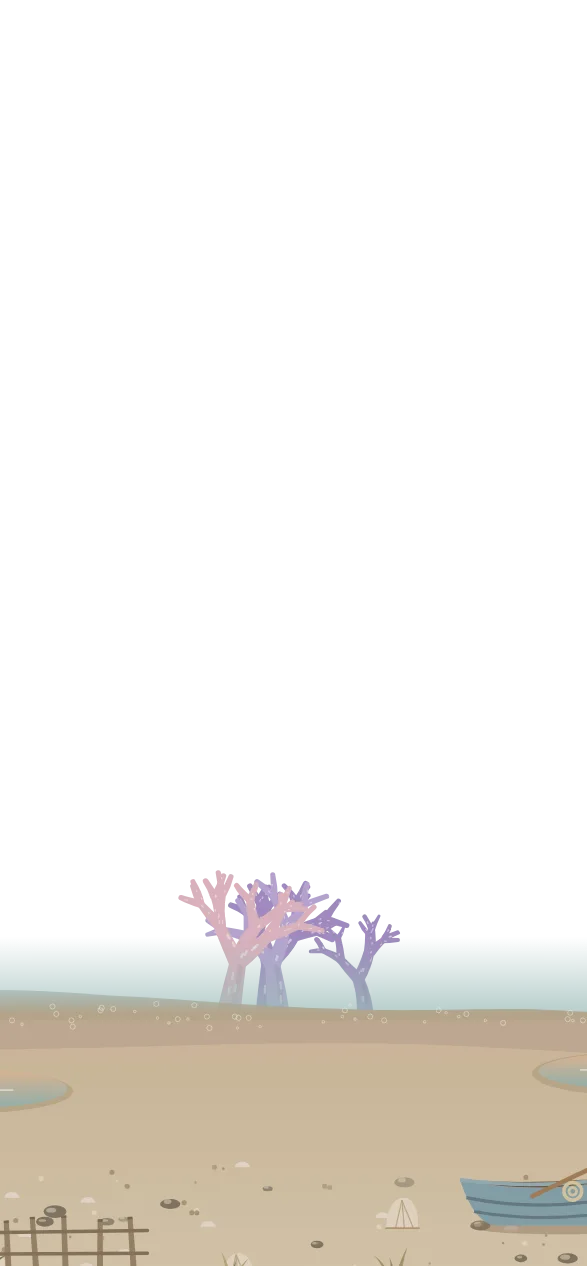
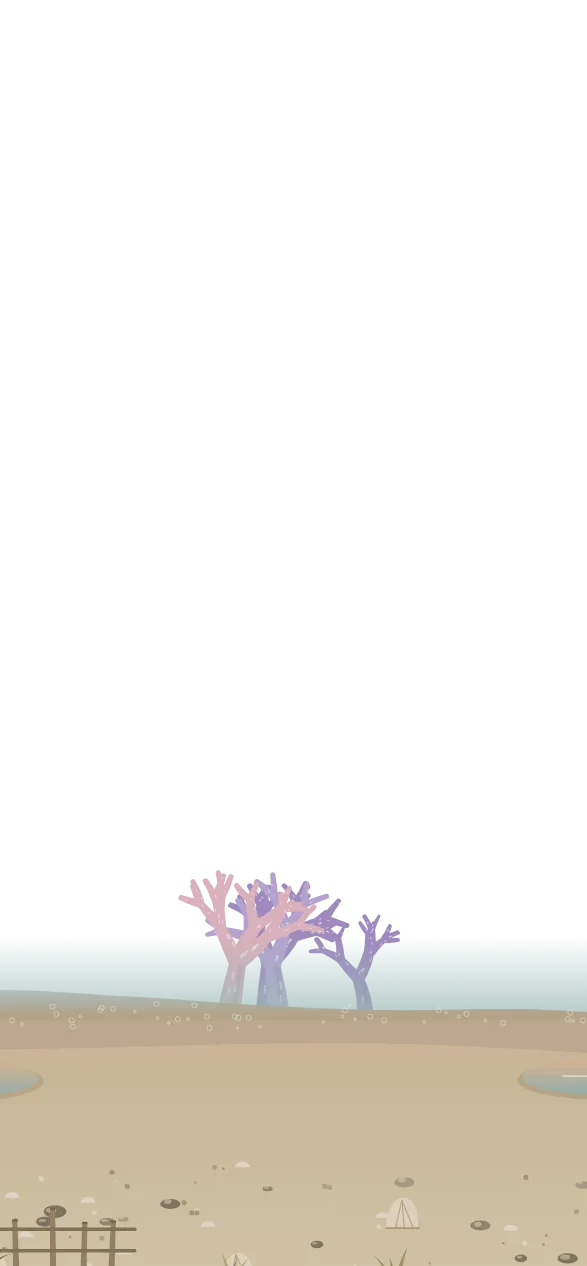
No falling leaves; crate stands sit in the sand
Claude-Session: https://claude.ai/code/session_01EHtmNVvLo6L45VFzzqfGpi

diff --git a/assets/js/museum.js b/assets/js/museum.js
@@ -419,7 +419,11 @@ function frameDeco(kind) {
       <ellipse cx="30" cy="9.5" rx="1.2" ry=".8" fill="#7a664c"/><ellipse cx="30" cy="9.5" rx="2" ry="1.3" fill="none" stroke="#8f7a5e" stroke-width=".25"/><ellipse cx="64" cy="27.4" rx="1" ry=".7" fill="#7a664c"/><ellipse cx="72" cy="15.6" rx=".9" ry=".6" fill="#7a664c"/>
       <path d="M8 0Q7 20 9 38H14Q13 20 13.5 0ZM86.5 0Q87 20 86 38H91Q93 20 92 0Z" fill="#9a8466"/><path d="M10 2Q9.5 20 10.5 36M88.5 2Q89 20 88 36" stroke="#c2ab8a" stroke-width=".6" fill="none"/><path d="M12.6 4Q12.2 20 12.8 34M87.6 4Q87.4 20 87.8 34" stroke="#7a664c" stroke-width=".4" fill="none" opacity=".7"/>
       ${[4, 30].map((y) => `<path d="M7.6 ${y}h7M7.6 ${y + 1.4}h7M7.6 ${y + 2.8}h7M85.6 ${y}h7M85.6 ${y + 1.4}h7M85.6 ${y + 2.8}h7" stroke="#e6d8bb" stroke-width=".9"/><path d="M7.6 ${y + .7}h7M7.6 ${y + 2.1}h7M85.6 ${y + .7}h7M85.6 ${y + 2.1}h7" stroke="#b39c7c" stroke-width=".4" opacity=".7"/>`).join('')}
-      <path d="M2 39.5Q11 34.5 20 39.5ZM80 39.5Q89 34.5 98 39.5Z" fill="#d6c3a0"/><path d="M2 39.5Q11 36.2 20 39.5ZM80 39.5Q89 36.2 98 39.5Z" fill="#c7b28d" opacity=".6"/>
+      <defs><linearGradient id="postSeat" x1="0" y1="0" x2="0" y2="1"><stop offset="0" stop-color="#3a2c1e" stop-opacity="0"/><stop offset="1" stop-color="#3a2c1e" stop-opacity=".32"/></linearGradient><linearGradient id="postSand" x1="0" y1="0" x2="0" y2="1"><stop offset="0" stop-color="#e3ccb6"/><stop offset=".5" stop-color="#dec6af"/><stop offset="1" stop-color="#dfc7b0"/></linearGradient></defs>
+      <path d="M11 31H89V37H11Z" fill="url(#postSeat)"/>
+      <path d="M0 40Q3 36.4 8 35.9Q12 34.9 16 35.8Q30 36.7 48 36.1Q66 35.5 84 36Q88 34.9 92 35.8Q97 36.4 100 40Z" fill="url(#postSand)"/>
+      <path d="M3 38Q5 36.2 8 35.9Q12 34.9 16 35.8Q30 36.7 48 36.1Q66 35.5 84 36Q88 34.9 92 35.8Q95 36.2 97 38Q94 36.8 92 36.9Q88 36.2 84 37Q66 36.6 48 37.2Q30 37.8 16 37Q12 36.2 8 37Q6 36.9 3 38Z" fill="#e8d4c0" opacity=".7"/>
+      <path d="M6 39.6Q20 38.6 34 39.3Q50 38.8 66 39.3Q80 38.7 94 39.6Z" fill="#cbb29e" opacity=".3"/>
       <path d="M4.5 39.2q.3 -1.6 1.4 -1.6q1 0 1.1 1.6Z" fill="#f3e3cc"/><path d="M5 39.2h2" stroke="#c7a57c" stroke-width=".25"/><path d="M15.5 39.3l.9 -1.2l1.2 .2l.6 1Z" fill="#e59a7a"/><path d="M93 39.1q.4 -1.4 1.5 -1.3q.9 .2 .9 1.3Z" fill="#e9cfae"/><path d="M83 39.3l3 -.8l2.5 .8Z" fill="#a8927a"/><path d="M84 38.7q1 -.5 3.4 -.3" stroke="#c9b59a" stroke-width=".3" fill="none"/></svg><svg class="deco top post" viewBox="0 0 100 20" preserveAspectRatio="none"><path d="M8 20Q7 8 9 0H14Q13 8 13.5 20ZM86.5 20Q87 8 86 0H91Q93 8 92 20Z" fill="#9a8466"/><path d="M5 3Q50 7 95 3L95 5.4Q50 9.2 5 5.4Z" fill="#8f7a5e"/><path d="M5 3Q50 7 95 3L95 3.9Q50 7.6 5 3.9Z" fill="#b39c7c"/><path d="M6.5 2.2q3 6 3 9M92.5 2.2q-3 6 -3 9M6.2 3.6L11.6 9.4M12.4 3L7.2 9.2M93.6 3.6L88.2 9.4M87.4 3L92.6 9.2" stroke="#e6d8bb" stroke-width=".9" fill="none"/><path d="M6.2 3.6L11.6 9.4M12.4 3L7.2 9.2M93.6 3.6L88.2 9.4M87.4 3L92.6 9.2" stroke="#b39c7c" stroke-width=".35" fill="none" opacity=".7"/><path d="M30 6L34 20M70 6L66 20" stroke="#e6d8bb" stroke-width=".8"/><path d="M30 6L34 20M70 6L66 20" stroke="#b39c7c" stroke-width=".8" stroke-dasharray=".6 1"/><circle cx="30" cy="5.8" r="1" fill="#e6d8bb"/><circle cx="70" cy="5.8" r="1" fill="#e6d8bb"/><path d="M89 9.6v4.4" stroke="#7a664c" stroke-width=".35"/><circle cx="89" cy="15.6" r="1.8" fill="#c97a66"/><path d="M87.3 15.2h3.4" stroke="#f3e3cc" stroke-width=".6"/></svg>`;
     default: return '';
   }

diff --git a/assets/js/nature.js b/assets/js/nature.js
@@ -1935,7 +1935,9 @@ export function sceneCove(W, stops, { night = false } = {}) {
     const gx = cx + W * FACTORS.mid * .5;
     mid += guard(Z, () => tidePool(gx + R(-10, 10), R(84, 86.5), R(5, 8)), { min: 1 });
     if (s % 3 === 0) mid += guard(Z, (k) => duneFence(gx - R(9, 12) * k, gx + R(9, 12) * k, R(98, 101), R(4, 5)), { min: .55 });
-    if (s % 3 === 1) mid += guard(Z, (k) => rowboat(gx + R(-3, 3), R(94, 97), R(16, 20) * k, pick(['#d9a06a', '#c98a7a', '#8fb0b8'])), { min: .6 });
+    // 小舟は、台の足もと（砂に埋まった根もと）にもかからないように、台の範囲を下まで広げてよける
+    const Zb = [Z[0], [cx - 16.5, 58, cx + 16.5, 99], Z[2], [nx - 16.5, 58, nx + 16.5, 99]];
+    if (s % 3 === 1) mid += guard(Zb, (k) => rowboat(gx + R(-3, 3), R(94, 97), R(16, 20) * k, pick(['#d9a06a', '#c98a7a', '#8fb0b8'])), { min: .6 });
     if (s % 3 === 2) mid += guard(Z, () => campfire(gx + R(-4, 4), R(95, 98), R(1.8, 2.2)), { min: 1 });
   }
   // 手前：浜辺の草と流木（作品と作品のあいだ）

diff --git a/assets/css/museum.css b/assets/css/museum.css
@@ -611,7 +611,7 @@ body.beat-on [data-egg="turntable"] .spin { animation-duration: 1.2s; }
 .frame-post .work .canvas { border: 1.4vh solid #e2d3bc; box-shadow: 0 2.4vh 4vh rgba(60, 40, 30, .28); }
 .frame-post .work .deco.under { top: calc(100% - 1px); width: 124%; height: 16vh; }
 .frame-post .work .deco.top.post { bottom: 100%; width: 124%; height: 8vh; }
-.frame-post .work .ground-shadow { top: calc(100% + 14vh); width: 110%; }
+.frame-post .work .ground-shadow { top: calc(100% + 12.6vh); width: 104%; height: 3vh; opacity: .5; } /* 台の根もとは砂に埋まっているので、影は薄く、砂の盛り上がりのすぐ下に */
 .ib-drift { animation: ibdrift 18s linear infinite both; }
 @keyframes ibdrift { from { transform: translate(40px, 72px) rotate(-10deg); } 50% { transform: translate(105px, 70px) rotate(8deg); } to { transform: translate(175px, 74px) rotate(-6deg); } }
 
